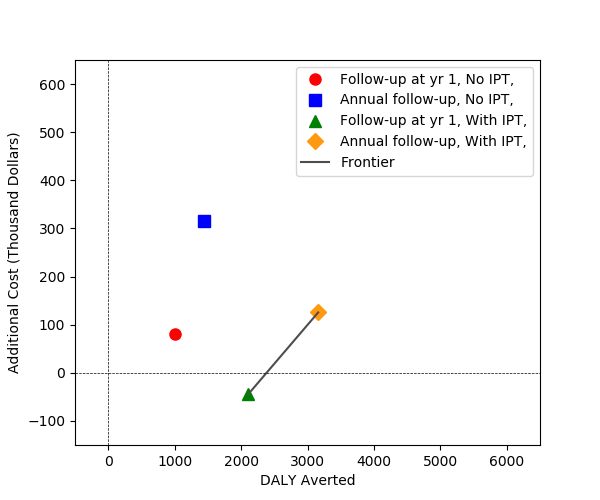
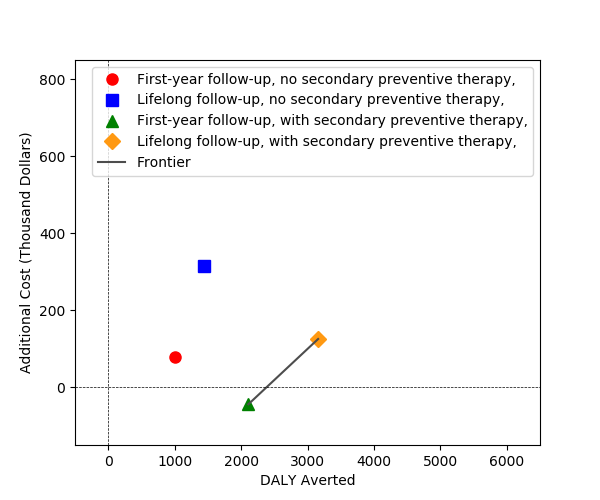
tb CEA

diff --git a/apace/ScenariosClasses.py b/apace/ScenariosClasses.py
@@ -329,34 +329,34 @@ class Series:
                         self.frontierXIntervals.append([y * cost_multiplier for y in y_interval])
                         self.frontierYIntervals.append([x * effect_multiplier for x in x_interval])
 
-        else:  # the CE frontier needs not to be calculated
+        #else:  # the CE frontier needs not to be calculated
 
-            del shifted_strategies[0]  # remove the base strategy
+        del shifted_strategies[0]  # remove the base strategy
 
-            # find the (x, y) values of strategies to display on CE plane
-            for idx, shiftedStr in enumerate(shifted_strategies):
+        # find the (x, y) values of strategies to display on CE plane
+        for idx, shiftedStr in enumerate(shifted_strategies):
+            if switch_cost_effect_on_figure:
+                self.allDeltaEffects = np.append(self.allDeltaEffects, shiftedStr.effectObs * effect_multiplier)
+                self.allDeltaCosts = np.append(self.allDeltaCosts, shiftedStr.costObs * cost_multiplier)
+                self.xValues.append(shiftedStr.aveCost * cost_multiplier)
+                self.yValues.append(shiftedStr.aveEffect * effect_multiplier)
+            else:
+                self.allDeltaEffects = np.append(self.allDeltaEffects, shiftedStr.effectObs * effect_multiplier)
+                self.allDeltaCosts = np.append(self.allDeltaCosts, shiftedStr.costObs * cost_multiplier)
+                self.xValues.append(shiftedStr.aveEffect * effect_multiplier)
+                self.yValues.append(shiftedStr.aveCost * cost_multiplier)
+
+            self.yLabels.append(shiftedStr.name)
+
+            if interval_type != 'n':
+                x_interval = shiftedStr.get_effect_interval(interval_type, ALPHA)
+                y_interval = shiftedStr.get_cost_interval(interval_type, ALPHA)
                 if switch_cost_effect_on_figure:
-                    self.allDeltaEffects = np.append(self.allDeltaEffects, shiftedStr.effectObs * effect_multiplier)
-                    self.allDeltaCosts = np.append(self.allDeltaCosts, shiftedStr.costObs * cost_multiplier)
-                    self.xValues.append(shiftedStr.aveCost * cost_multiplier)
-                    self.yValues.append(shiftedStr.aveEffect * effect_multiplier)
+                    self.xIntervals.append([y * cost_multiplier for y in y_interval])
+                    self.yIntervals.append([x * effect_multiplier for x in x_interval])
                 else:
-                    self.allDeltaEffects = np.append(self.allDeltaEffects, shiftedStr.effectObs * effect_multiplier)
-                    self.allDeltaCosts = np.append(self.allDeltaCosts, shiftedStr.costObs * cost_multiplier)
-                    self.xValues.append(shiftedStr.aveEffect * effect_multiplier)
-                    self.yValues.append(shiftedStr.aveCost * cost_multiplier)
-
-                self.yLabels.append(shiftedStr.name)
-
-                if interval_type != 'n':
-                    x_interval = shiftedStr.get_effect_interval(interval_type, ALPHA)
-                    y_interval = shiftedStr.get_cost_interval(interval_type, ALPHA)
-                    if switch_cost_effect_on_figure:
-                        self.xIntervals.append([y * cost_multiplier for y in y_interval])
-                        self.yIntervals.append([x * effect_multiplier for x in x_interval])
-                    else:
-                        self.xIntervals.append([x * effect_multiplier for x in x_interval])
-                        self.yIntervals.append([y * cost_multiplier for y in y_interval])
+                    self.xIntervals.append([x * effect_multiplier for x in x_interval])
+                    self.yIntervals.append([y * cost_multiplier for y in y_interval])
 
     def get_frontier_x_err(self):
 

diff --git a/tb/TB_CEA.py b/tb/TB_CEA.py
@@ -1,11 +1,10 @@
 import matplotlib.pyplot as plt
 import apace.ScenariosClasses as Cls
-import SimPy.EconEvalClasses as Econ
 
 markers = ['o', 's', '^', 'D']
 colors = ['r', 'b', 'g', '#FF9912']
 
-PROB_UPTAKE = 0.75      # 0.5, 0.75, 1
+PROB_UPTAKE = .75      # 0.5, 0.75, 1
 PROB_DROPOUT = 0.15     # 0.1, 0.15, 0.25,
 
 # conditions of variables to define scenarios to display on the cost-effectiveness plane
@@ -23,8 +22,8 @@ varConditions = [
                           maximum=1,
                           if_included_in_label=True,
                           label_rules=[
-                              (0, 'Follow-up at yr 1'),
-                              (1, 'Annual follow-up')]
+                              (0, 'First-year follow-up'),
+                              (1, 'Lifelong follow-up')]
                           ),
     Cls.VariableCondition('Prob {Drop-Out in Tc+>1}',
                           values=(PROB_DROPOUT, 0),
@@ -34,8 +33,8 @@ varConditions = [
                           maximum=1,
                           if_included_in_label=True,
                           label_rules=[
-                              (0, 'No IPT'),
-                              (1, 'With IPT')]
+                              (0, 'no secondary preventive therapy'),
+                              (1, 'with secondary preventive therapy')]
                           )
 ]
 
@@ -61,10 +60,10 @@ Cls.populate_series(series,
                     effect_multiplier=1,
                     cost_multiplier=1 / 1e3)
 
-
+# print dCost, dEffect and cost-effectiveness ratio with respect to the base
 print(series[0].CEA.get_dCost_dEffect_cer(interval_type='p',
                                           alpha=0.05,
-                                          cost_digits=0, effect_digits=2, icer_digits=1,
+                                          cost_digits=0, effect_digits=0, icer_digits=1,
                                           cost_multiplier=1, effect_multiplier=1))
 
 # plot
@@ -93,7 +92,7 @@ for i, ser in enumerate(series):
 plt.xlabel('DALY Averted')
 plt.ylabel('Additional Cost (Thousand Dollars)')
 plt.xlim(-500, 6500)
-plt.ylim(-150, 650)
+plt.ylim(-150, 850)
 plt.axvline(x=0, linestyle='--', color='black', linewidth=.5)
 plt.axhline(y=0, linestyle='--', color='black', linewidth=.5)
 plt.savefig('figures/cea/'
